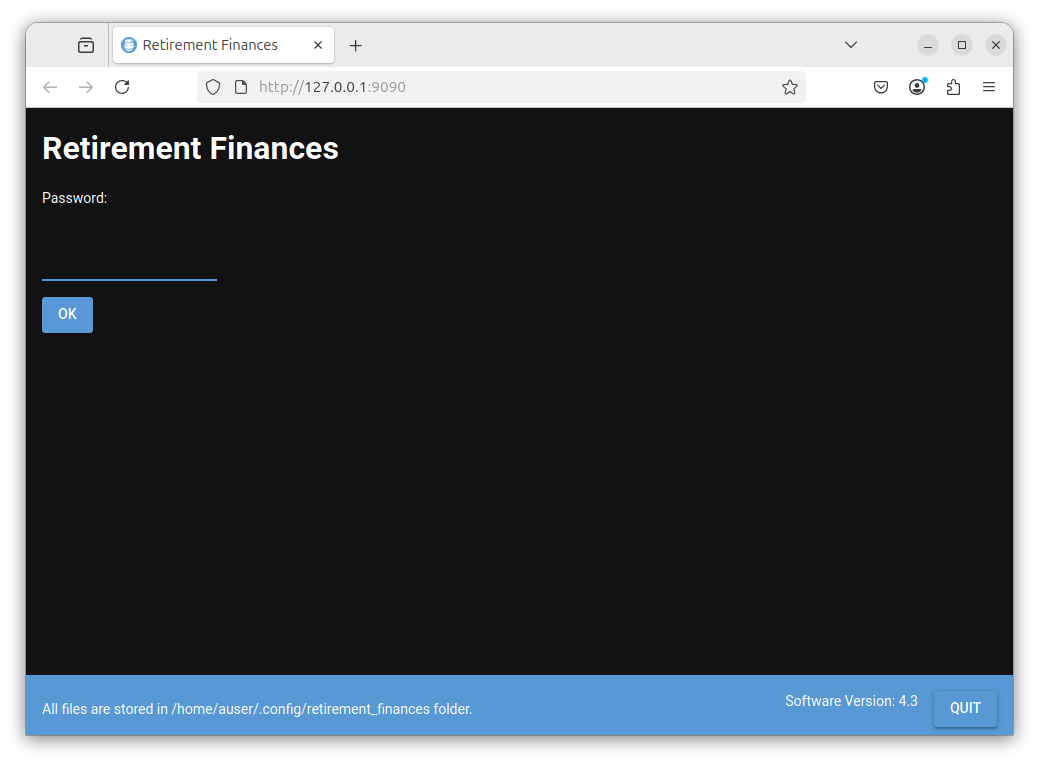
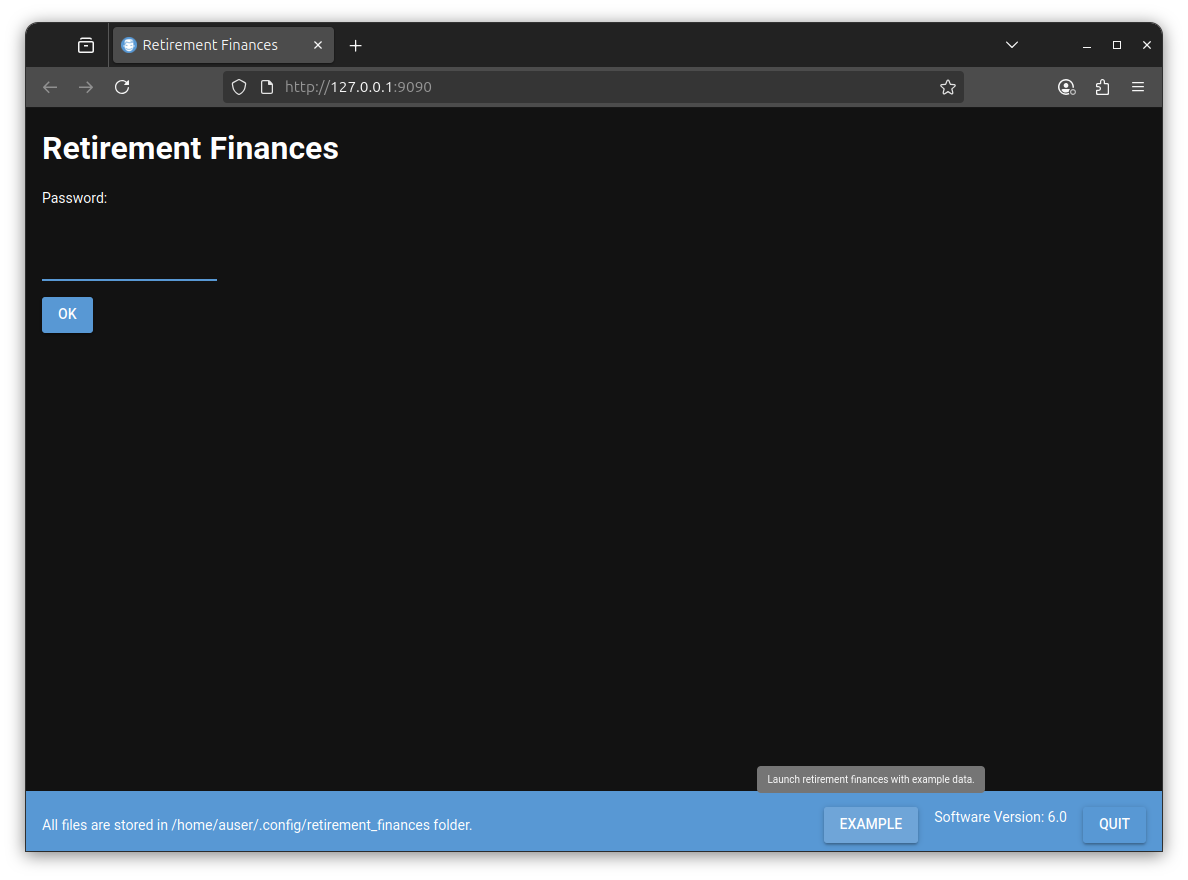
Add initial documentation WRT how to access the example data.

Changed region(s): [[0.0, 0.0, 0.9856, 0.9935]]

diff --git a/README.md b/README.md
@@ -141,7 +141,7 @@ This will open your systems default web browser as shown below
 
 ## Blue bar at the bottom of the browser window.
 
-- Quit button
+- QUIT button
 
 This must be selected to shut down the program. If you just close the browser window the Retirement Finances (App) will stay running. You can reconnect to it by entering 127.0.0.1:9090 into the browsers address bar. The app will only be accessible from your local machine.
 
@@ -149,9 +149,17 @@ This must be selected to shut down the program. If you just close the browser wi
 
 To the left of the Quit button the Retirement Finances App software version is displayed.
 
+- EXAMPLE button
+
+Selecting this button starts a new instance of the retirement finances program/app that contains example data. 
+
+A new window is opened with the password field populated. If you then select the OK button you can view the example data and run reports on it. The example data is not designed as a guide to pension finances. However this option is useful in that it allows you to investigate how to use the tool once populated with data. This is a useful starting point if you wish to become familiar with the use of the retirement finances tool.
+
+In the example data you can change any entry as you wish, however once you close the retirement finances app (select the QUIT button) the data will be lost as the next time you start the app it will contain the original example data.
+
 - Storage Folder
 
-On the left hand side of the blue bar the folder where all the files created by the App are stored is detailed. All these files are encrypted. The password prompted for is used to decrypt the data in these files. If you ever wish to delete all data used by the App and start again then you should shut down the App (click the Quit button) and then manually delete this folder.
+On the left hand side of the bar at the bottom of the window the folder, where all the files created by the App are stored, is detailed. All these files are encrypted. The password prompted for is used to decrypt the data in these files. If you ever wish to delete all data used by the App and start again then you can shut down the app (click the QUIT button) and then manually delete this folder.
 
 ## Entering a password.
 
